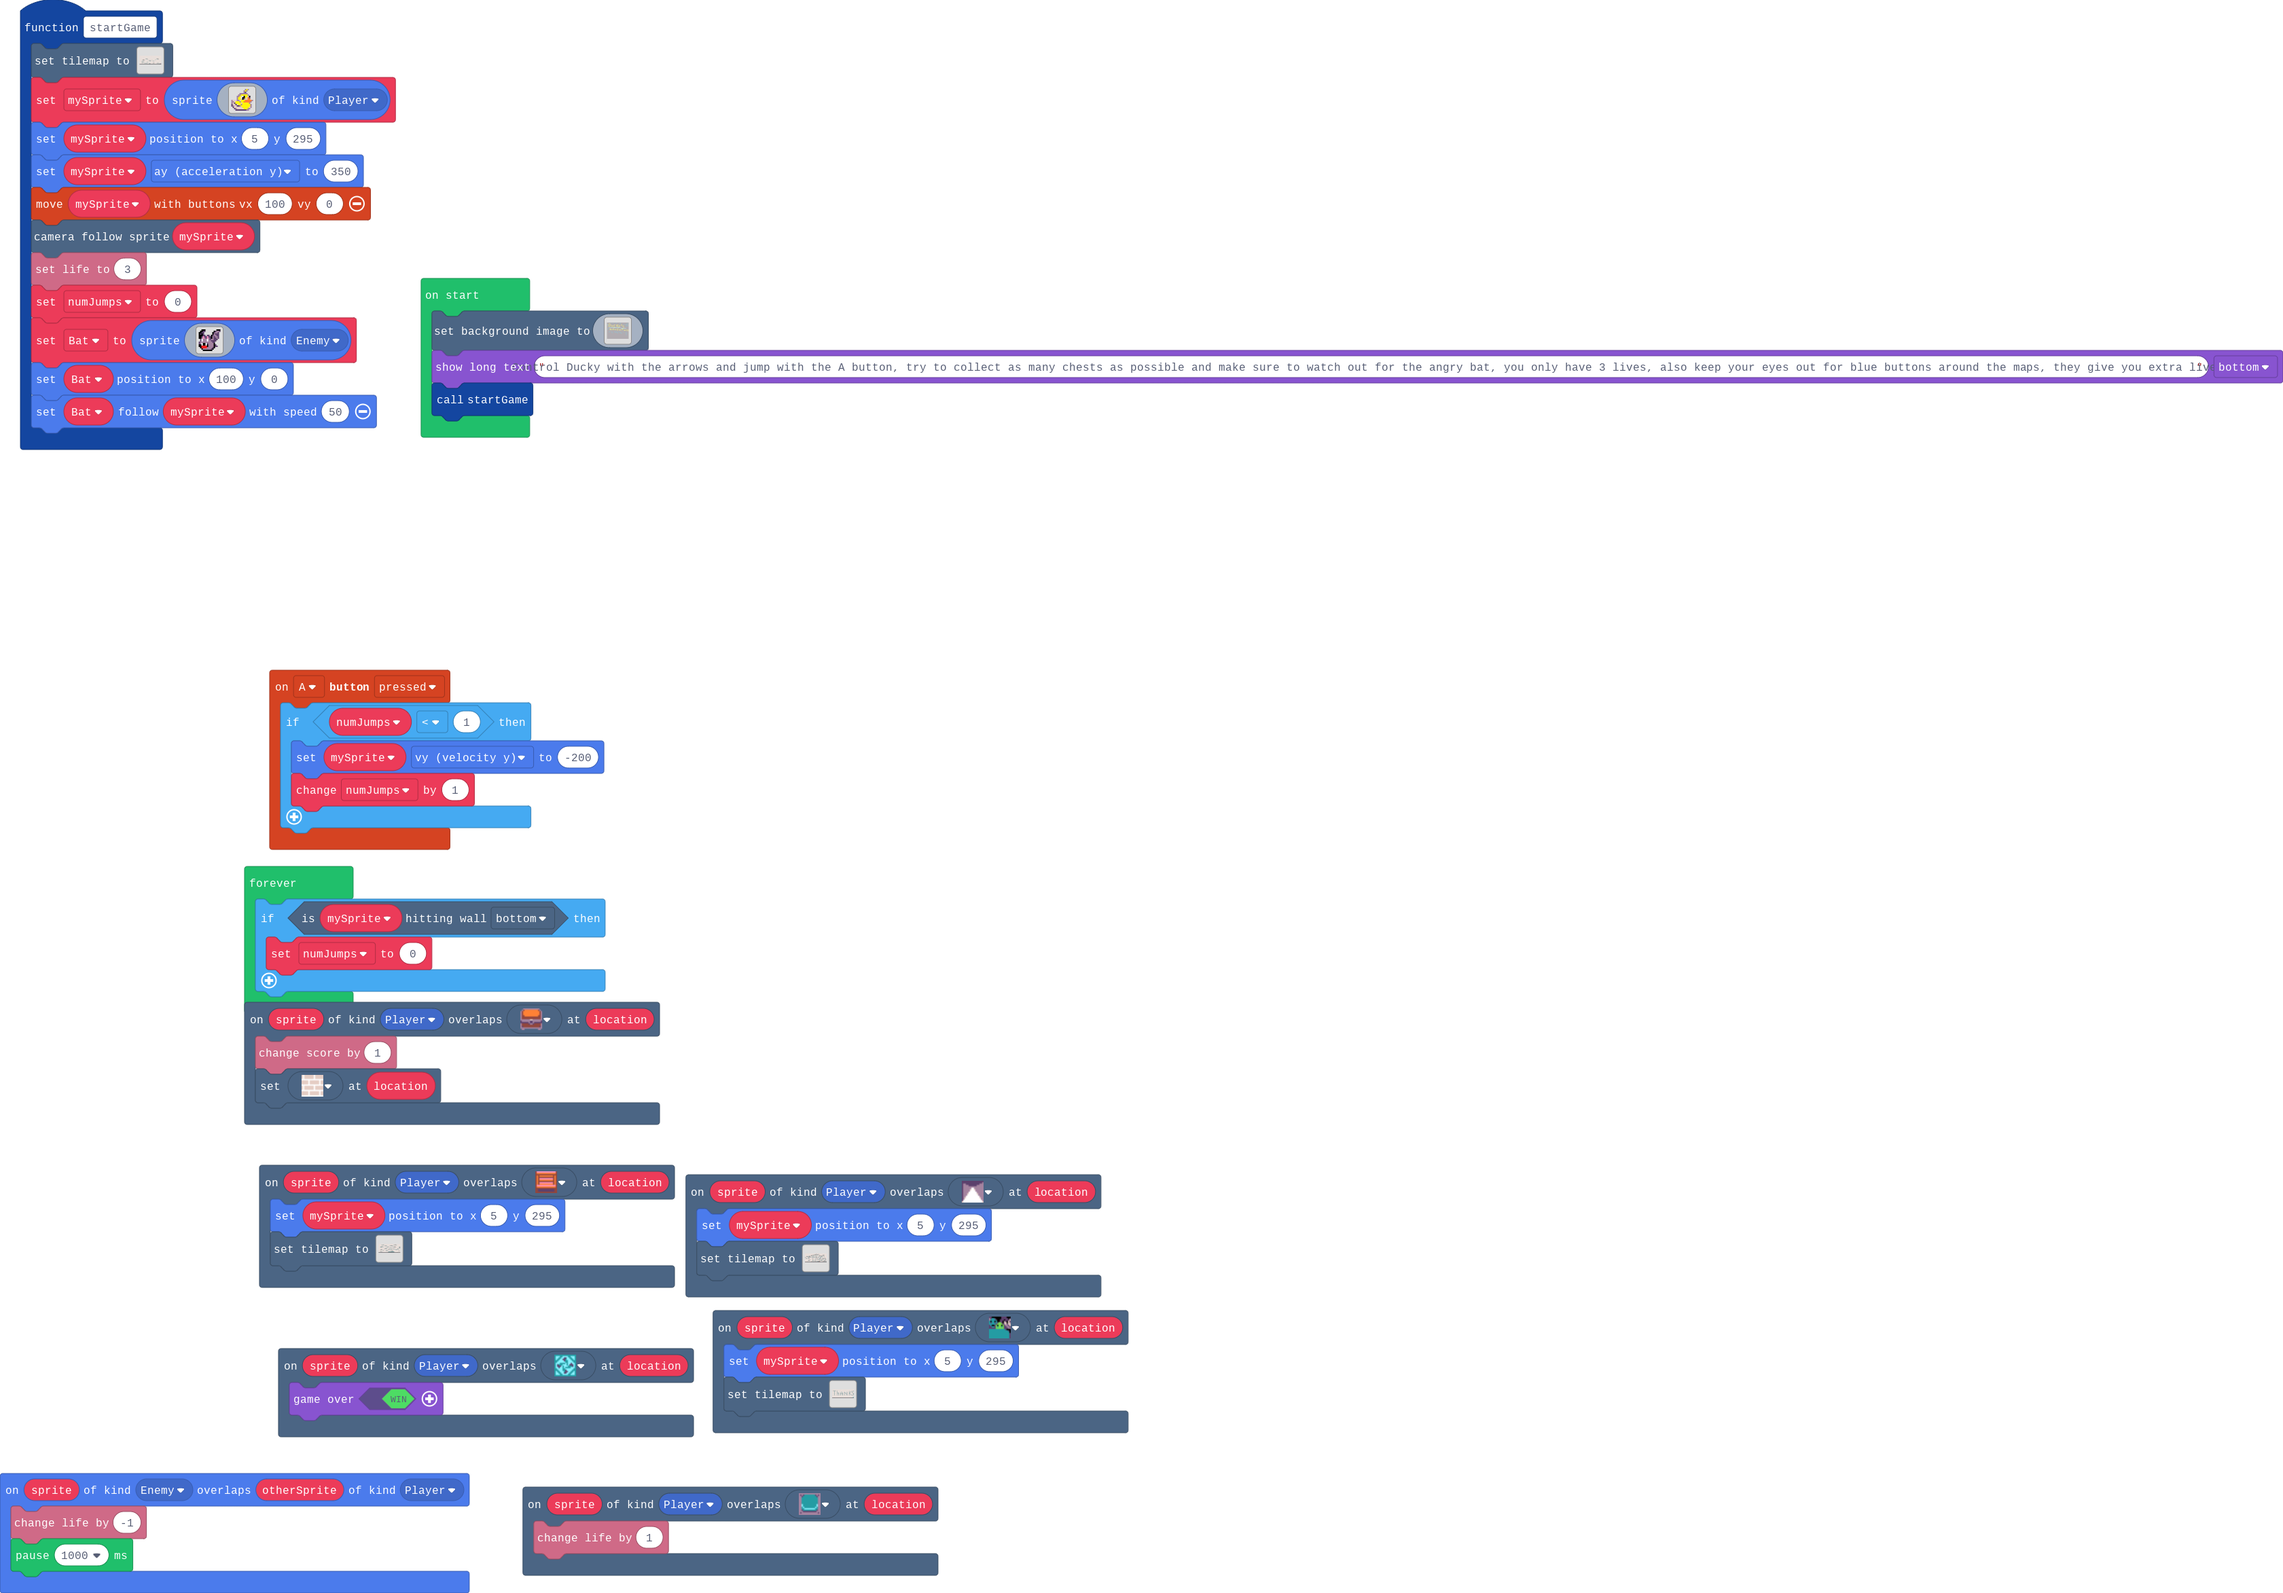
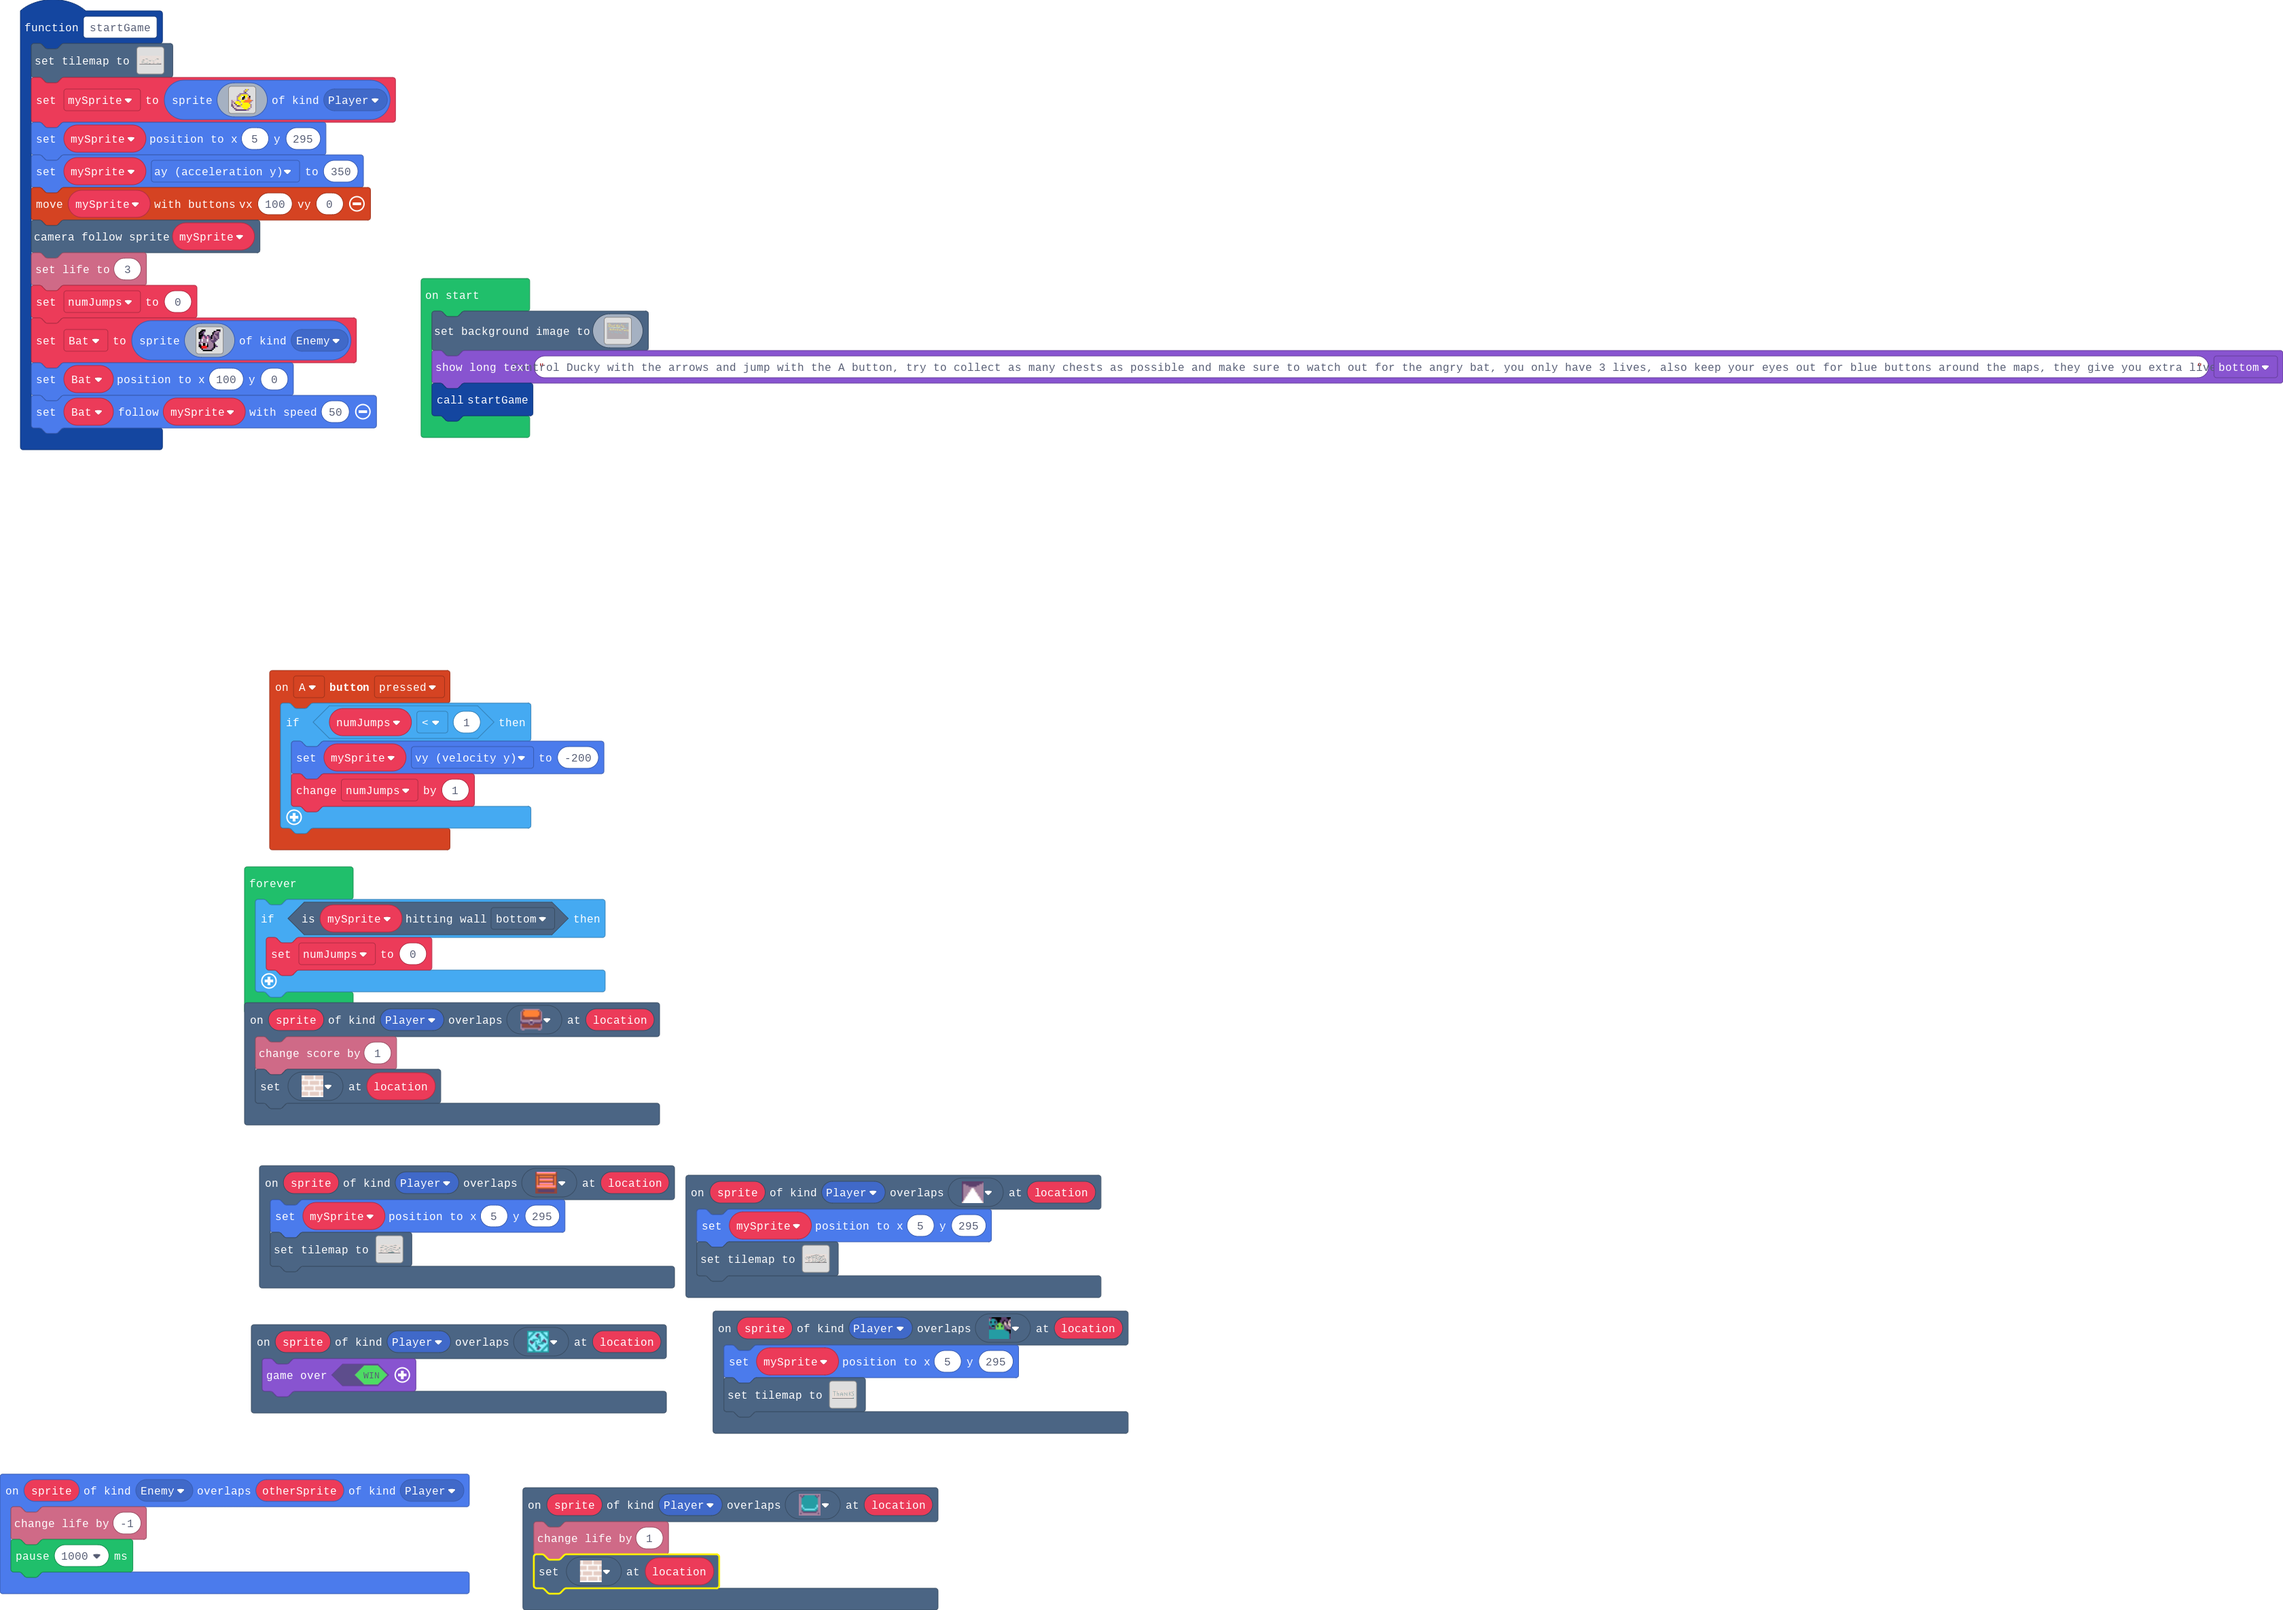
Update pxt.json, main.blocks, main.ts

Changed region(s): [[0.0, 0.4045, 0.4999, 1.0], [0.0, 0.0311, 0.1562, 0.2801], [0.1874, 0.1556, 1.0, 0.2801]]

diff --git a/main.ts b/main.ts
@@ -51,6 +51,7 @@ scene.onOverlapTile(SpriteKind.Player, sprites.dungeon.stairLadder, function (sp
 })
 scene.onOverlapTile(SpriteKind.Player, sprites.dungeon.buttonTeal, function (sprite, location) {
     info.changeLifeBy(1)
+    tiles.setTileAt(location, sprites.builtin.brick)
 })
 function startGame () {
     tiles.setTilemap(tiles.createTilemap(
